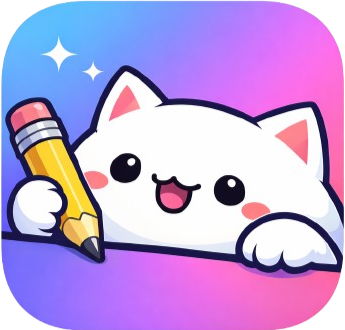
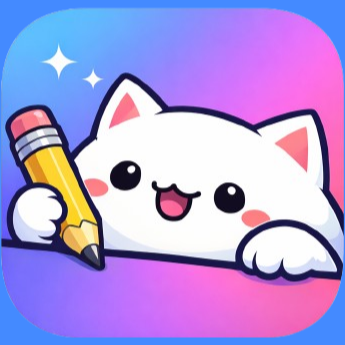
fix: cambiando cosas del icono

diff --git a/vite.config.ts b/vite.config.ts
@@ -19,19 +19,9 @@ export default defineConfig({
         icons: [
           {
             src: "iconoapp.png",
-            sizes: "192x192",
-            type: "image/png",
-          },
-          {
-            src: "iconoapp.png",
             sizes: "345x345",
             type: "image/png",
-          },
-          {
-            src: "iconoapp.png",
-            sizes: "512x512",
-            type: "image/png",
-            purpose: "any maskable", // Esto es clave para que el icono se vea bien en Android
+            purpose: "any maskable",
           },
         ],
       },
